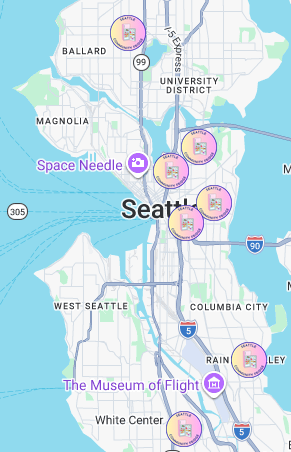
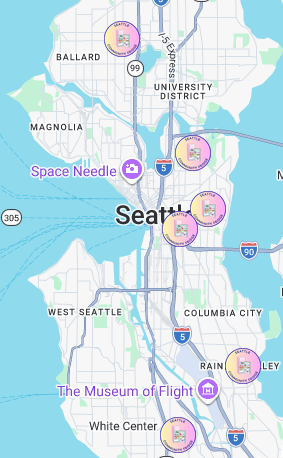
Updated locations map with new locations; added link to Pantry Map

diff --git a/src/app/data/locations.js b/src/app/data/locations.js
@@ -87,36 +87,7 @@ export const location_data = [
         ]
     },
     {
-        "name": "LGBTQ+ Center",
-        "address": "400 E Pine St, Seattle, WA 98122",
-        "desc": "Located inside the center",
-        "full_description": "This is our only fridge that’s indoors, and is only available when the center is open (Tuesday-Saturday). (https://www.gaycity.org/) This is a full-size fridge. The pantry is not stocked by us, but you should be welcome to take food from there.",
-        "coord": {
-            lat: 47.61554205613653,
-            lng: -122.32654650438295
-        },
-        "image": "/fridge-images/LGBTQ Plus 2.jpg",
-        "closest_stops": [
-            {
-                line: "3, 10, 11, 12, 49",
-                stop_name: "E Pine St & Bellevue Ave"
-            }, 
-            {
-                line: "3, 11",
-                stop_name: "Bellevue Ave & E Olive Way"
-            }, 
-            {
-                line: "8",
-                stop_name: "E Denny Way & Melrose Ave/Bellevue Ave"
-            },
-            {
-                line: "1 Line",
-                stop_name: "Capitol Hill"
-            }
-        ]
-    },
-    {
-        "name": "Burien (moved from old location!)",
+        "name": "Burien",
         "address": "11860 12th Avenue, South Burien, WA 98168",
         "full_description": "Managed by a separate group within SCF at 11860 12th Avenue, South Burien, WA 98168. Usually lots of food there.",
         "coord": {

diff --git a/src/app/locations/page.tsx b/src/app/locations/page.tsx
@@ -2,6 +2,7 @@
 import { APIProvider, Map, AdvancedMarker, MapCameraProps, MapCameraChangedEvent } from "@vis.gl/react-google-maps";
 import { useState, useCallback } from "react";
 import { Button } from '@headlessui/react';
+import Link from 'next/link'
 import { Location, location_data } from '../data/locations';
 import LocationDescription from './LocationDescription';
 
@@ -17,8 +18,8 @@ export default function Locations() {
     const [selectedLocation, setSelectedLocation] = useState<Location | null>(null);
     const [dialogLocation, setDialogLocation] = useState("");
 
-    // Starts centered on the LGBTQ+ center since it's closest to the middle of the city
-    const [markerLocation, setMarkerLocation] = useState(location_data[4]['coord']); 
+    // Starts centered on the Capitol Hill fridge since it's closest to the middle of the city
+    const [markerLocation, setMarkerLocation] = useState(location_data[3]['coord']); 
 
     const INITIAL_CAMERA = {
         center: markerLocation,
@@ -64,6 +65,7 @@ export default function Locations() {
                                 }}>View</Button>
                             </div>
                         ))}
+                        <p>Check Seattle's <Link href="https://www.pantrymap.org/map">Pantry Map</Link> for local pantries near you as well!</p>
                     </div>
                 </div>
                 { selectedLocation != null && 
